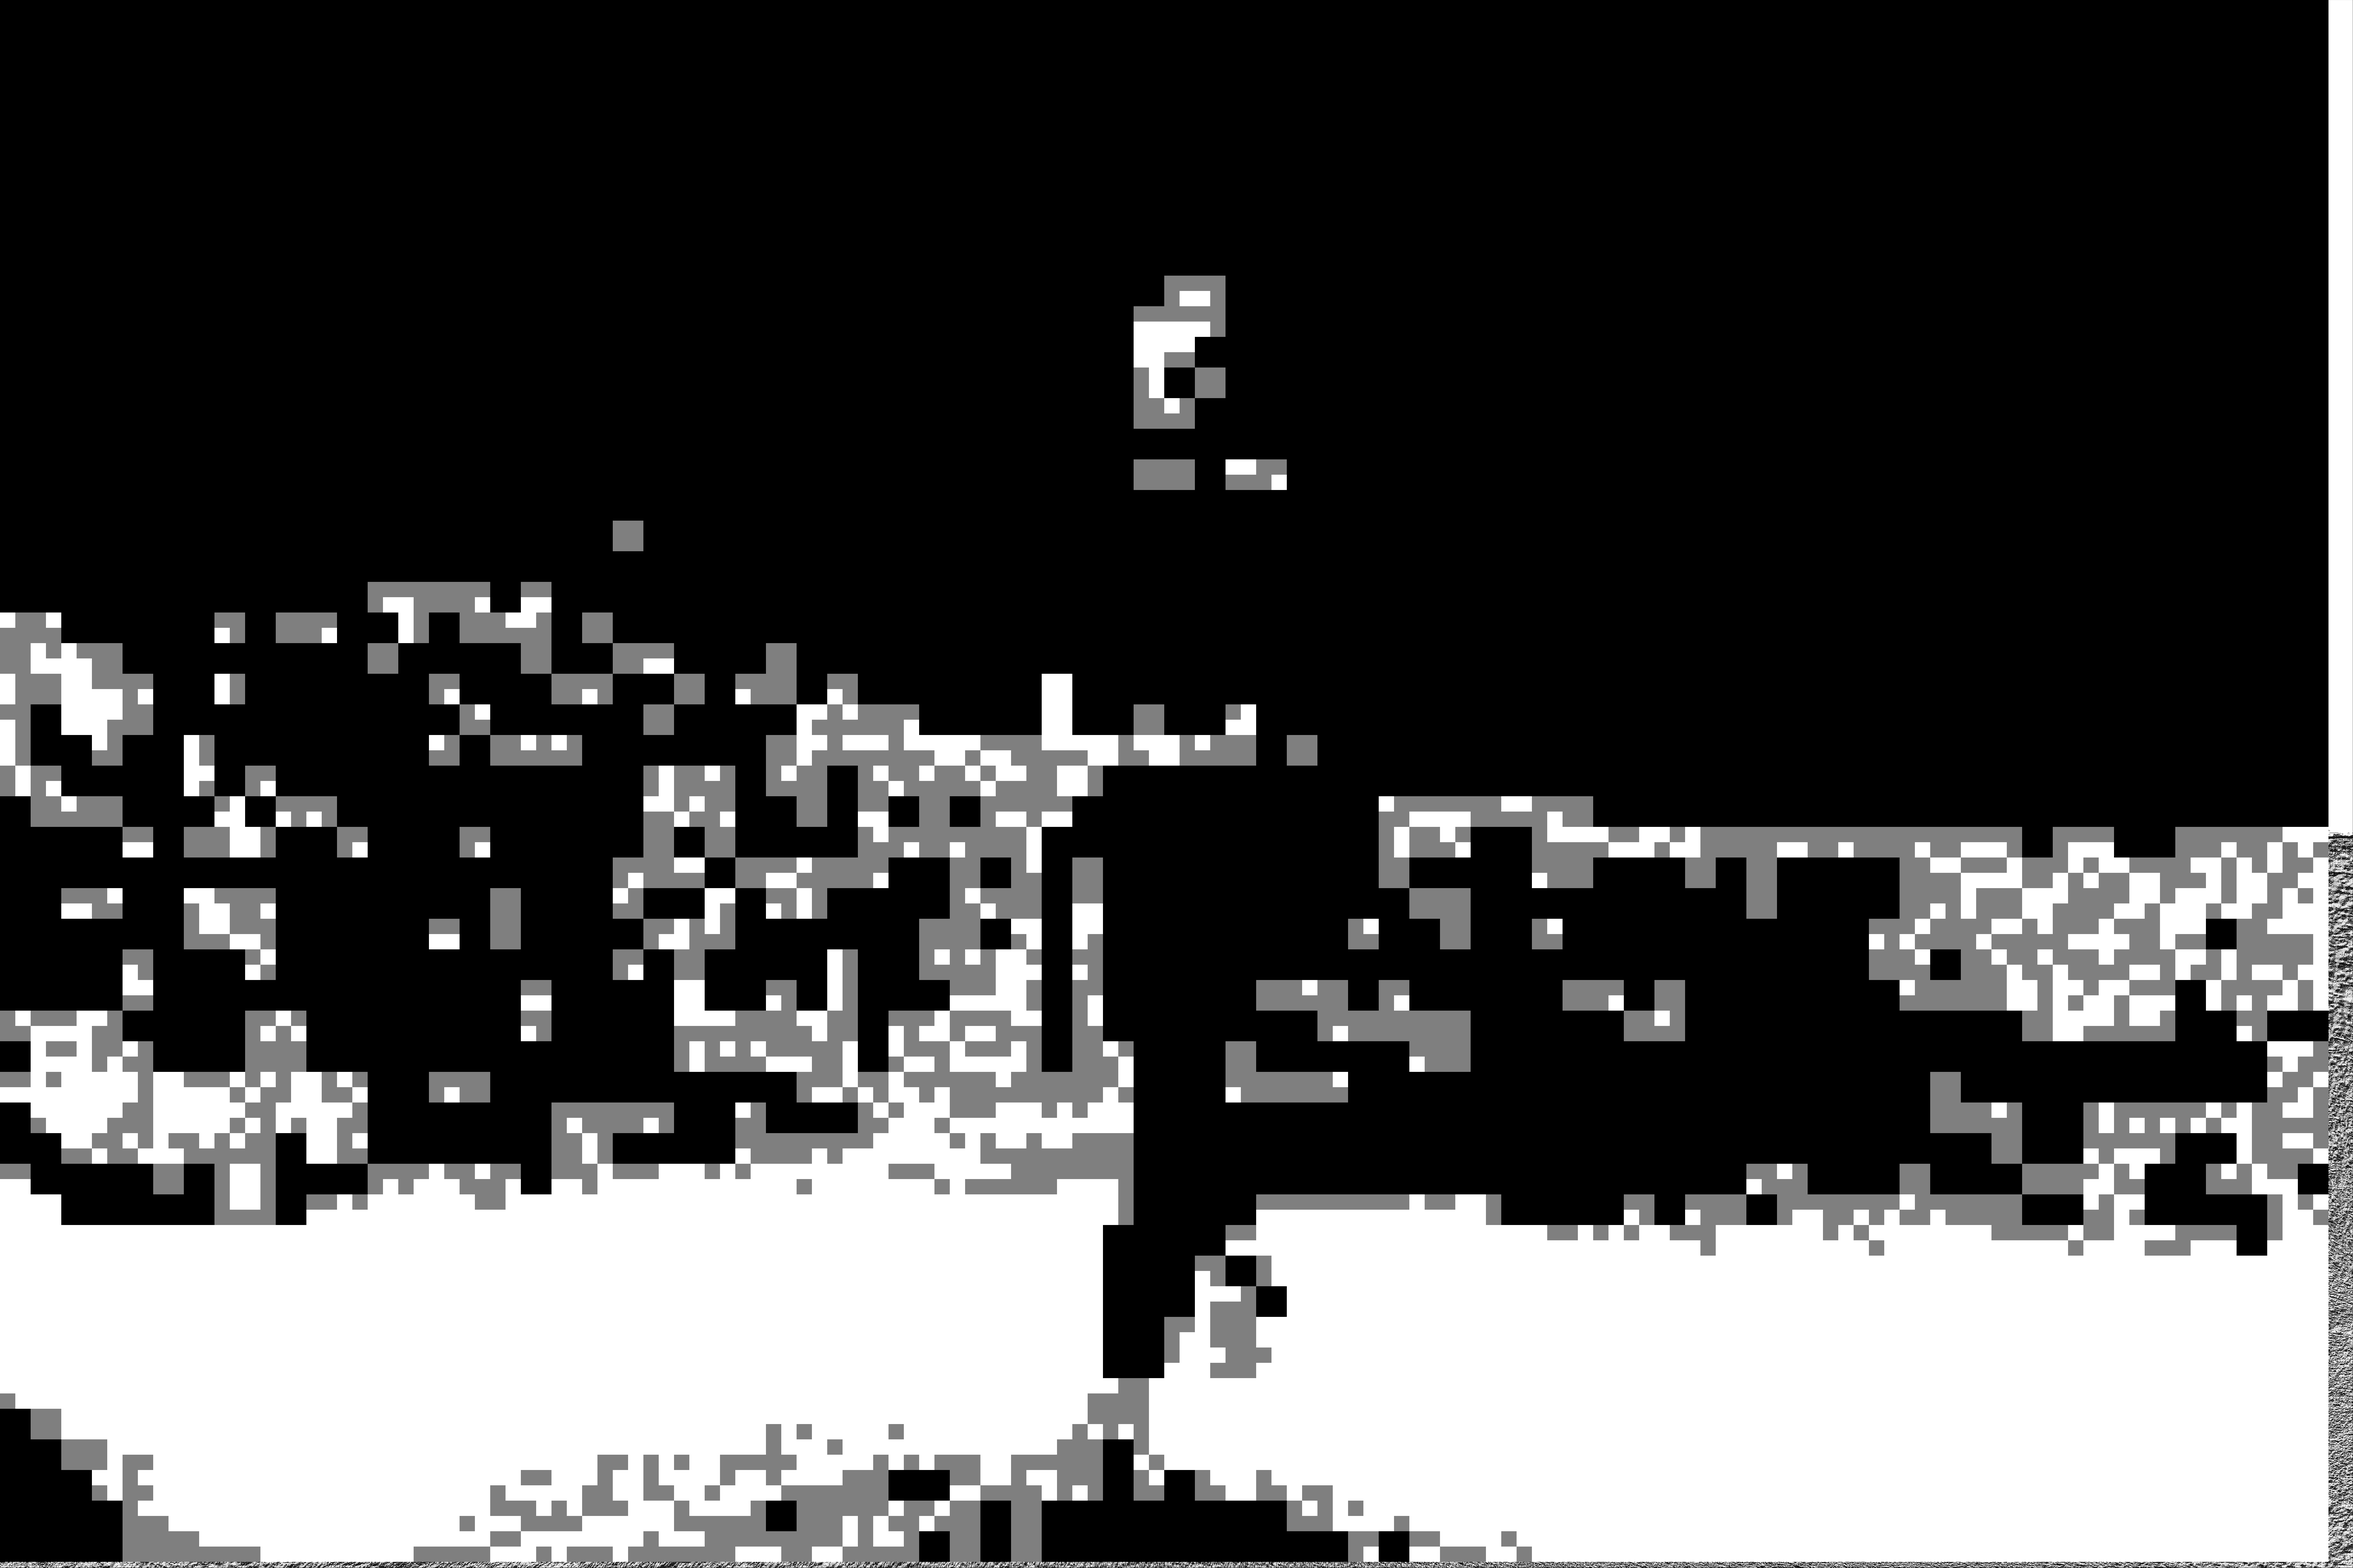
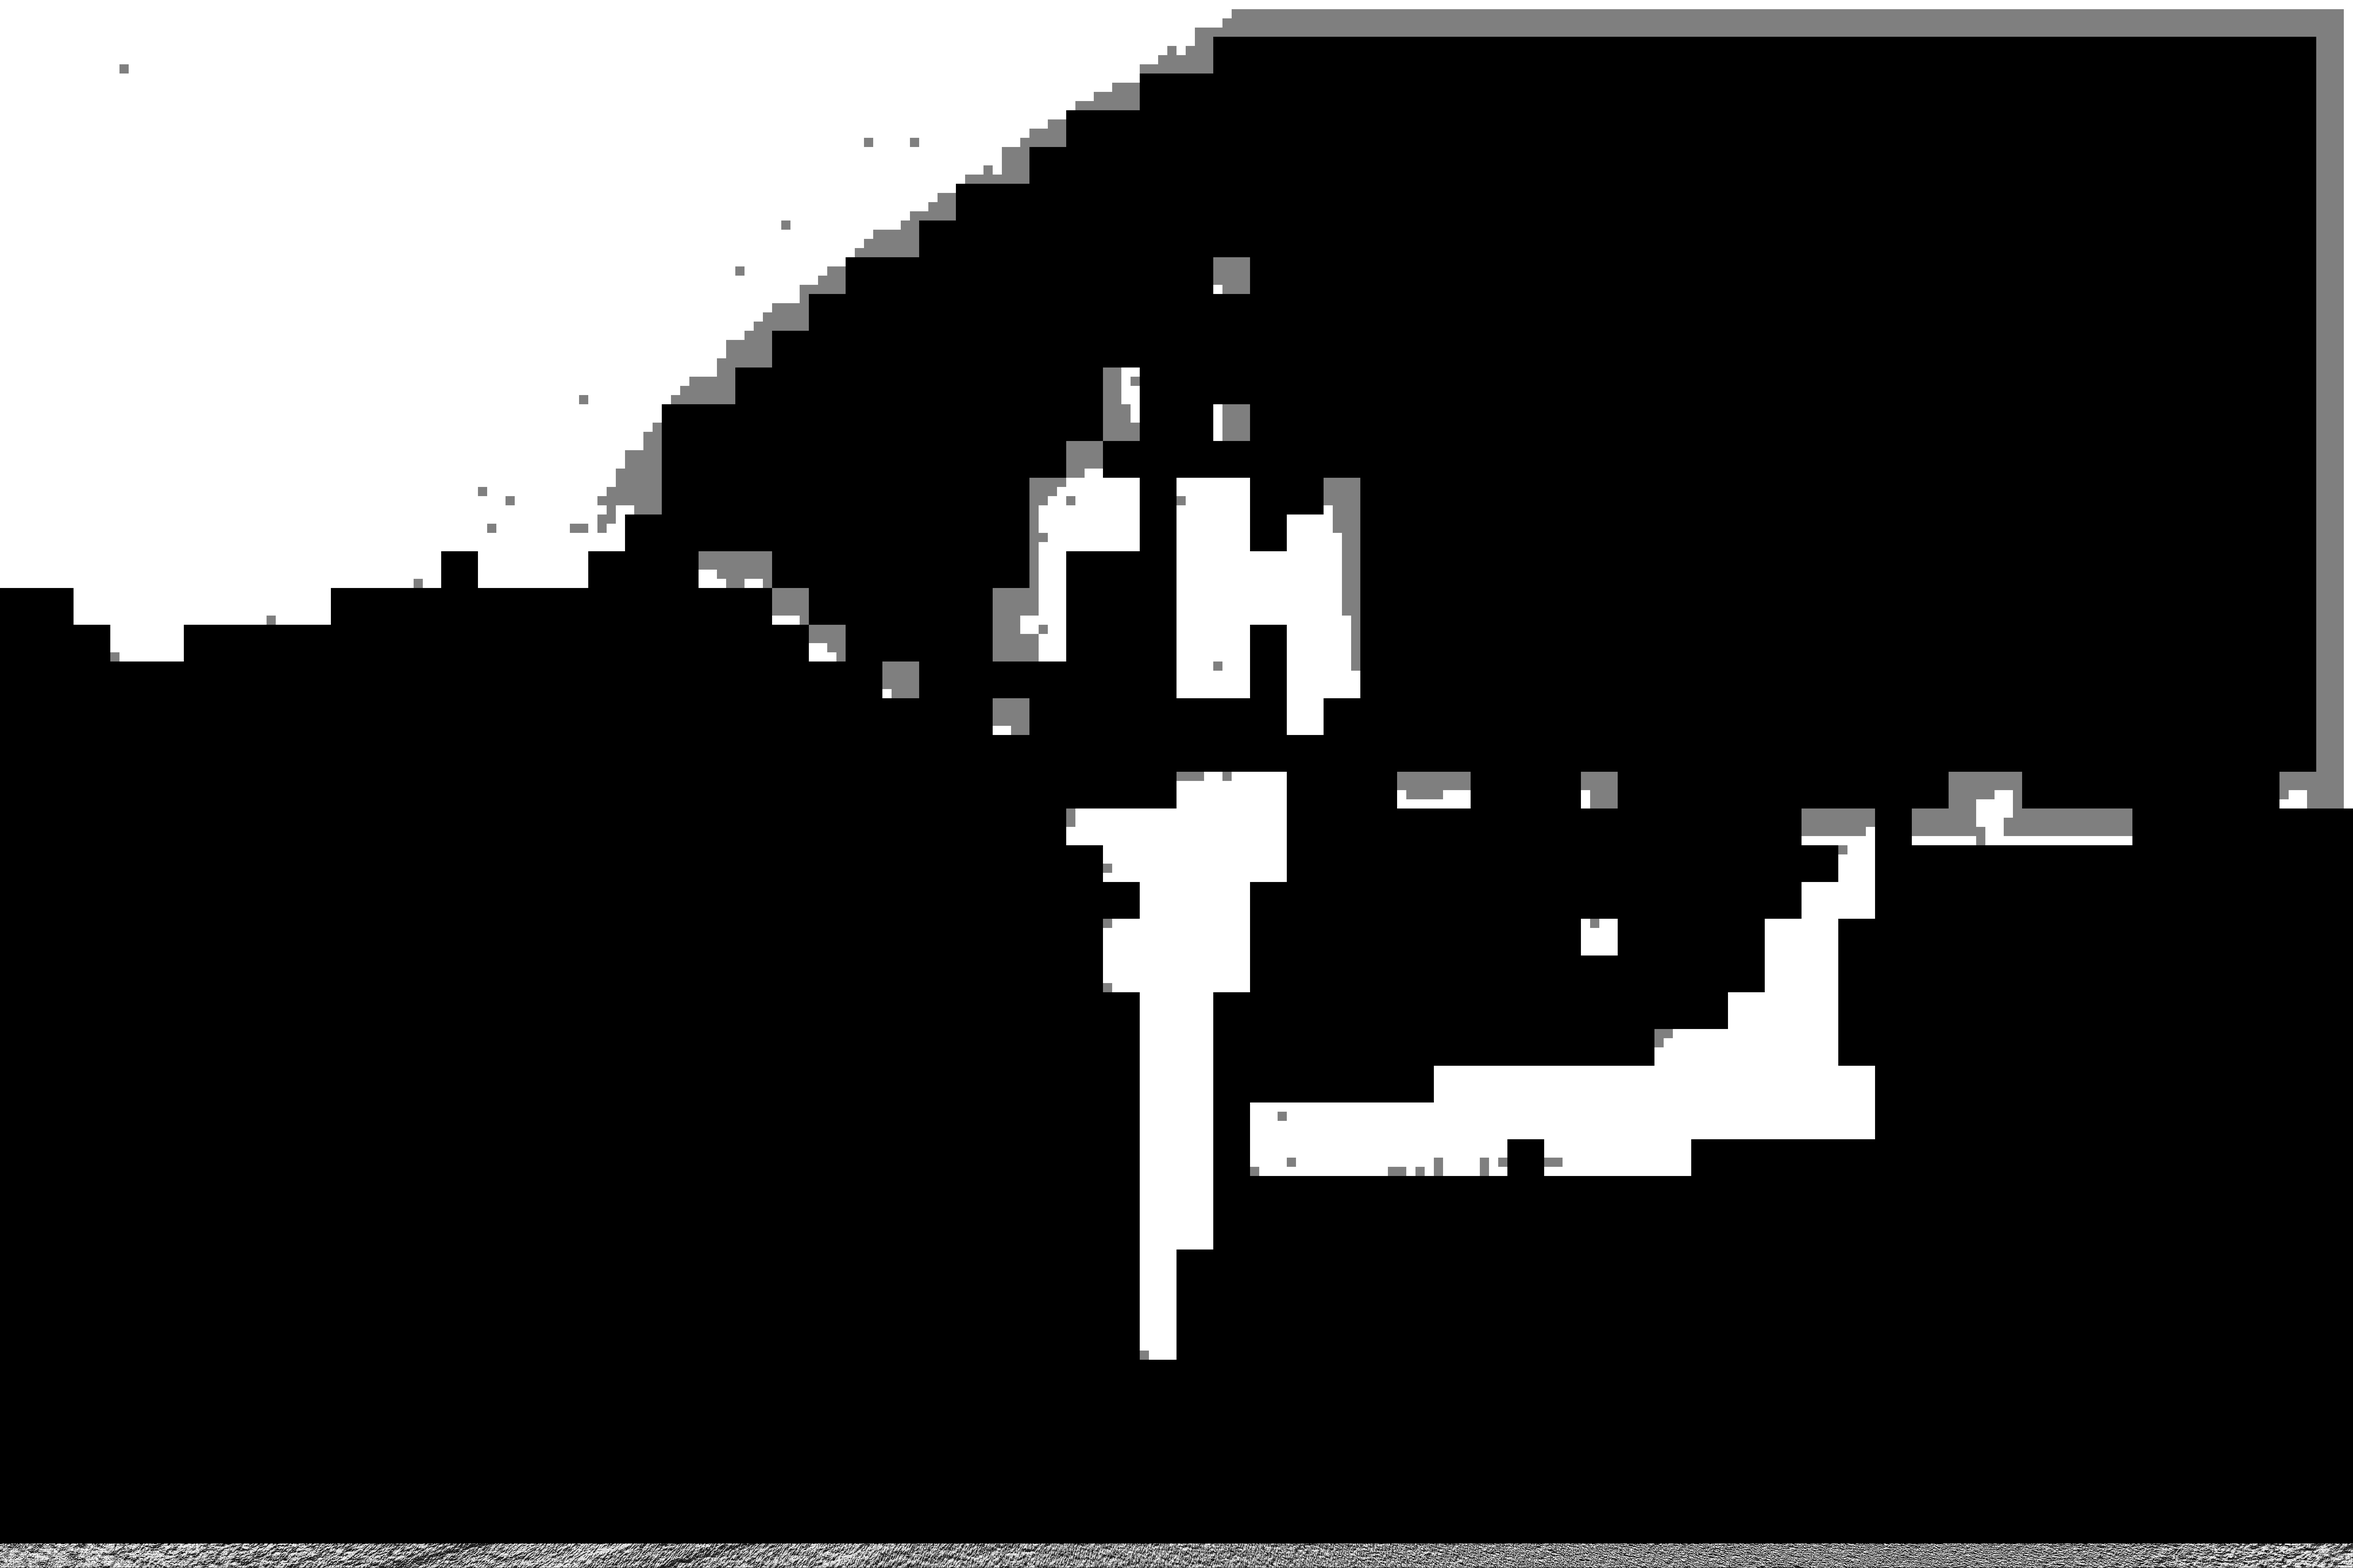
測試

diff --git a/007.LBP/Hist_compire_2.py b/007.LBP/Hist_compire_2.py
@@ -30,8 +30,8 @@ H1 = cv2.calcHist([img_compire_lbp.astype('uint8')], [0], None, [254],[1,254])
 H1 = cv2.normalize(H1, H1, 0, 1, cv2.NORM_MINMAX, -1) # 对图片进行归一化处理
  
 # 计算图img2的直方图
-Block_high = 10*10
-Block_high_2 = 10*5
+Block_high = 10*12
+Block_high_2 = 10*3
 h,w = img.shape
 print(h,w)
 once = [[]]
@@ -42,11 +42,11 @@ for i in range (0,int(w/Block_high)):
         y=j*Block_high
         H2 = cv2.calcHist([image_lbp[y:y+Block_high,x:x+Block_high].astype('uint8')], [0], None,[254],[1,254])
         H2 = cv2.normalize(H2, H2, 0, 1, cv2.NORM_MINMAX, -1)
-        similarity = cv2.compareHist(H1, H2, cv2.HISTCMP_CORREL)
+        similarity = cv2.compareHist(H1, H2,cv2.HISTCMP_BHATTACHARYYA)
 # =============================================================================
 #         print(similarity)
 # =============================================================================
-        if (1.0>similarity>0.75):
+        if (1.0>similarity>0.40):
             image_lbp[y:y+Block_high,x:x+Block_high]=255
             
             for k in range(0,int(Block_high/Block_high_2)):
@@ -55,11 +55,9 @@ for i in range (0,int(w/Block_high)):
                     y_2=l*Block_high_2
                     H3 = cv2.calcHist([image_lbp_copy[y+y_2:y+y_2+Block_high_2,x+x_2:x+x_2+Block_high_2].astype('uint8')], [0], None, [254],[1,254])
                     H3 = cv2.normalize(H3, H3, 0, 1, cv2.NORM_MINMAX, -1)
-                    similarity = cv2.compareHist(H1, H3, cv2.HISTCMP_CORREL)
-# =============================================================================
-#                     print(similarity)
-# =============================================================================
-                    if(1.0>similarity>0.80):
+                    similarity = cv2.compareHist(H1, H3, cv2.HISTCMP_BHATTACHARYYA)
+                    print(similarity)
+                    if(1.0>similarity>0.40):
                         image_lbp_copy[y+y_2:y+y_2+Block_high_2,x+x_2:x+x_2+Block_high_2]=255
                         raw_image[y+y_2:y+y_2+Block_high_2,x+x_2:x+x_2+Block_high_2]=125
                     else:
@@ -83,7 +81,7 @@ image_lbp_copy = image_lbp_copy.astype(int)
 img = img.astype(int)
 print(image_lbp_copy)
 print(img)
-raw_image = cv2.addWeighted(image_lbp_copy,0.5,img,0.5,0)
+raw_image_gray = cv2.addWeighted(image_lbp_copy,0.5,img,0.5,0)
 # =============================================================================
 # cv2.imshow("Final",Final)
 # =============================================================================
@@ -93,6 +91,8 @@ cv2.imwrite('../098.picture/BlockTest/Block_test_forRoad5_2.jpg',image_lbp_copy)
 cv2.imwrite('../098.picture/BlockTest/Block_test_Final_forRoad5.jpg',Final)
 cv2.imwrite('../098.picture/BlockTest/Block_test_Final2_forRoad5.jpg',Final_2)
 cv2.imwrite('../098.picture/BlockTest/Block_test_Final2_forRoad5_raw_image.jpg',raw_image)
+cv2.imwrite('../098.picture/BlockTest/Block_test_Final2_forRoad5_raw_image_gray.jpg',raw_image_gray)
+
 # =============================================================================
 # cv2.waitKey(0)
 # cv2.destroyAllWindows()
